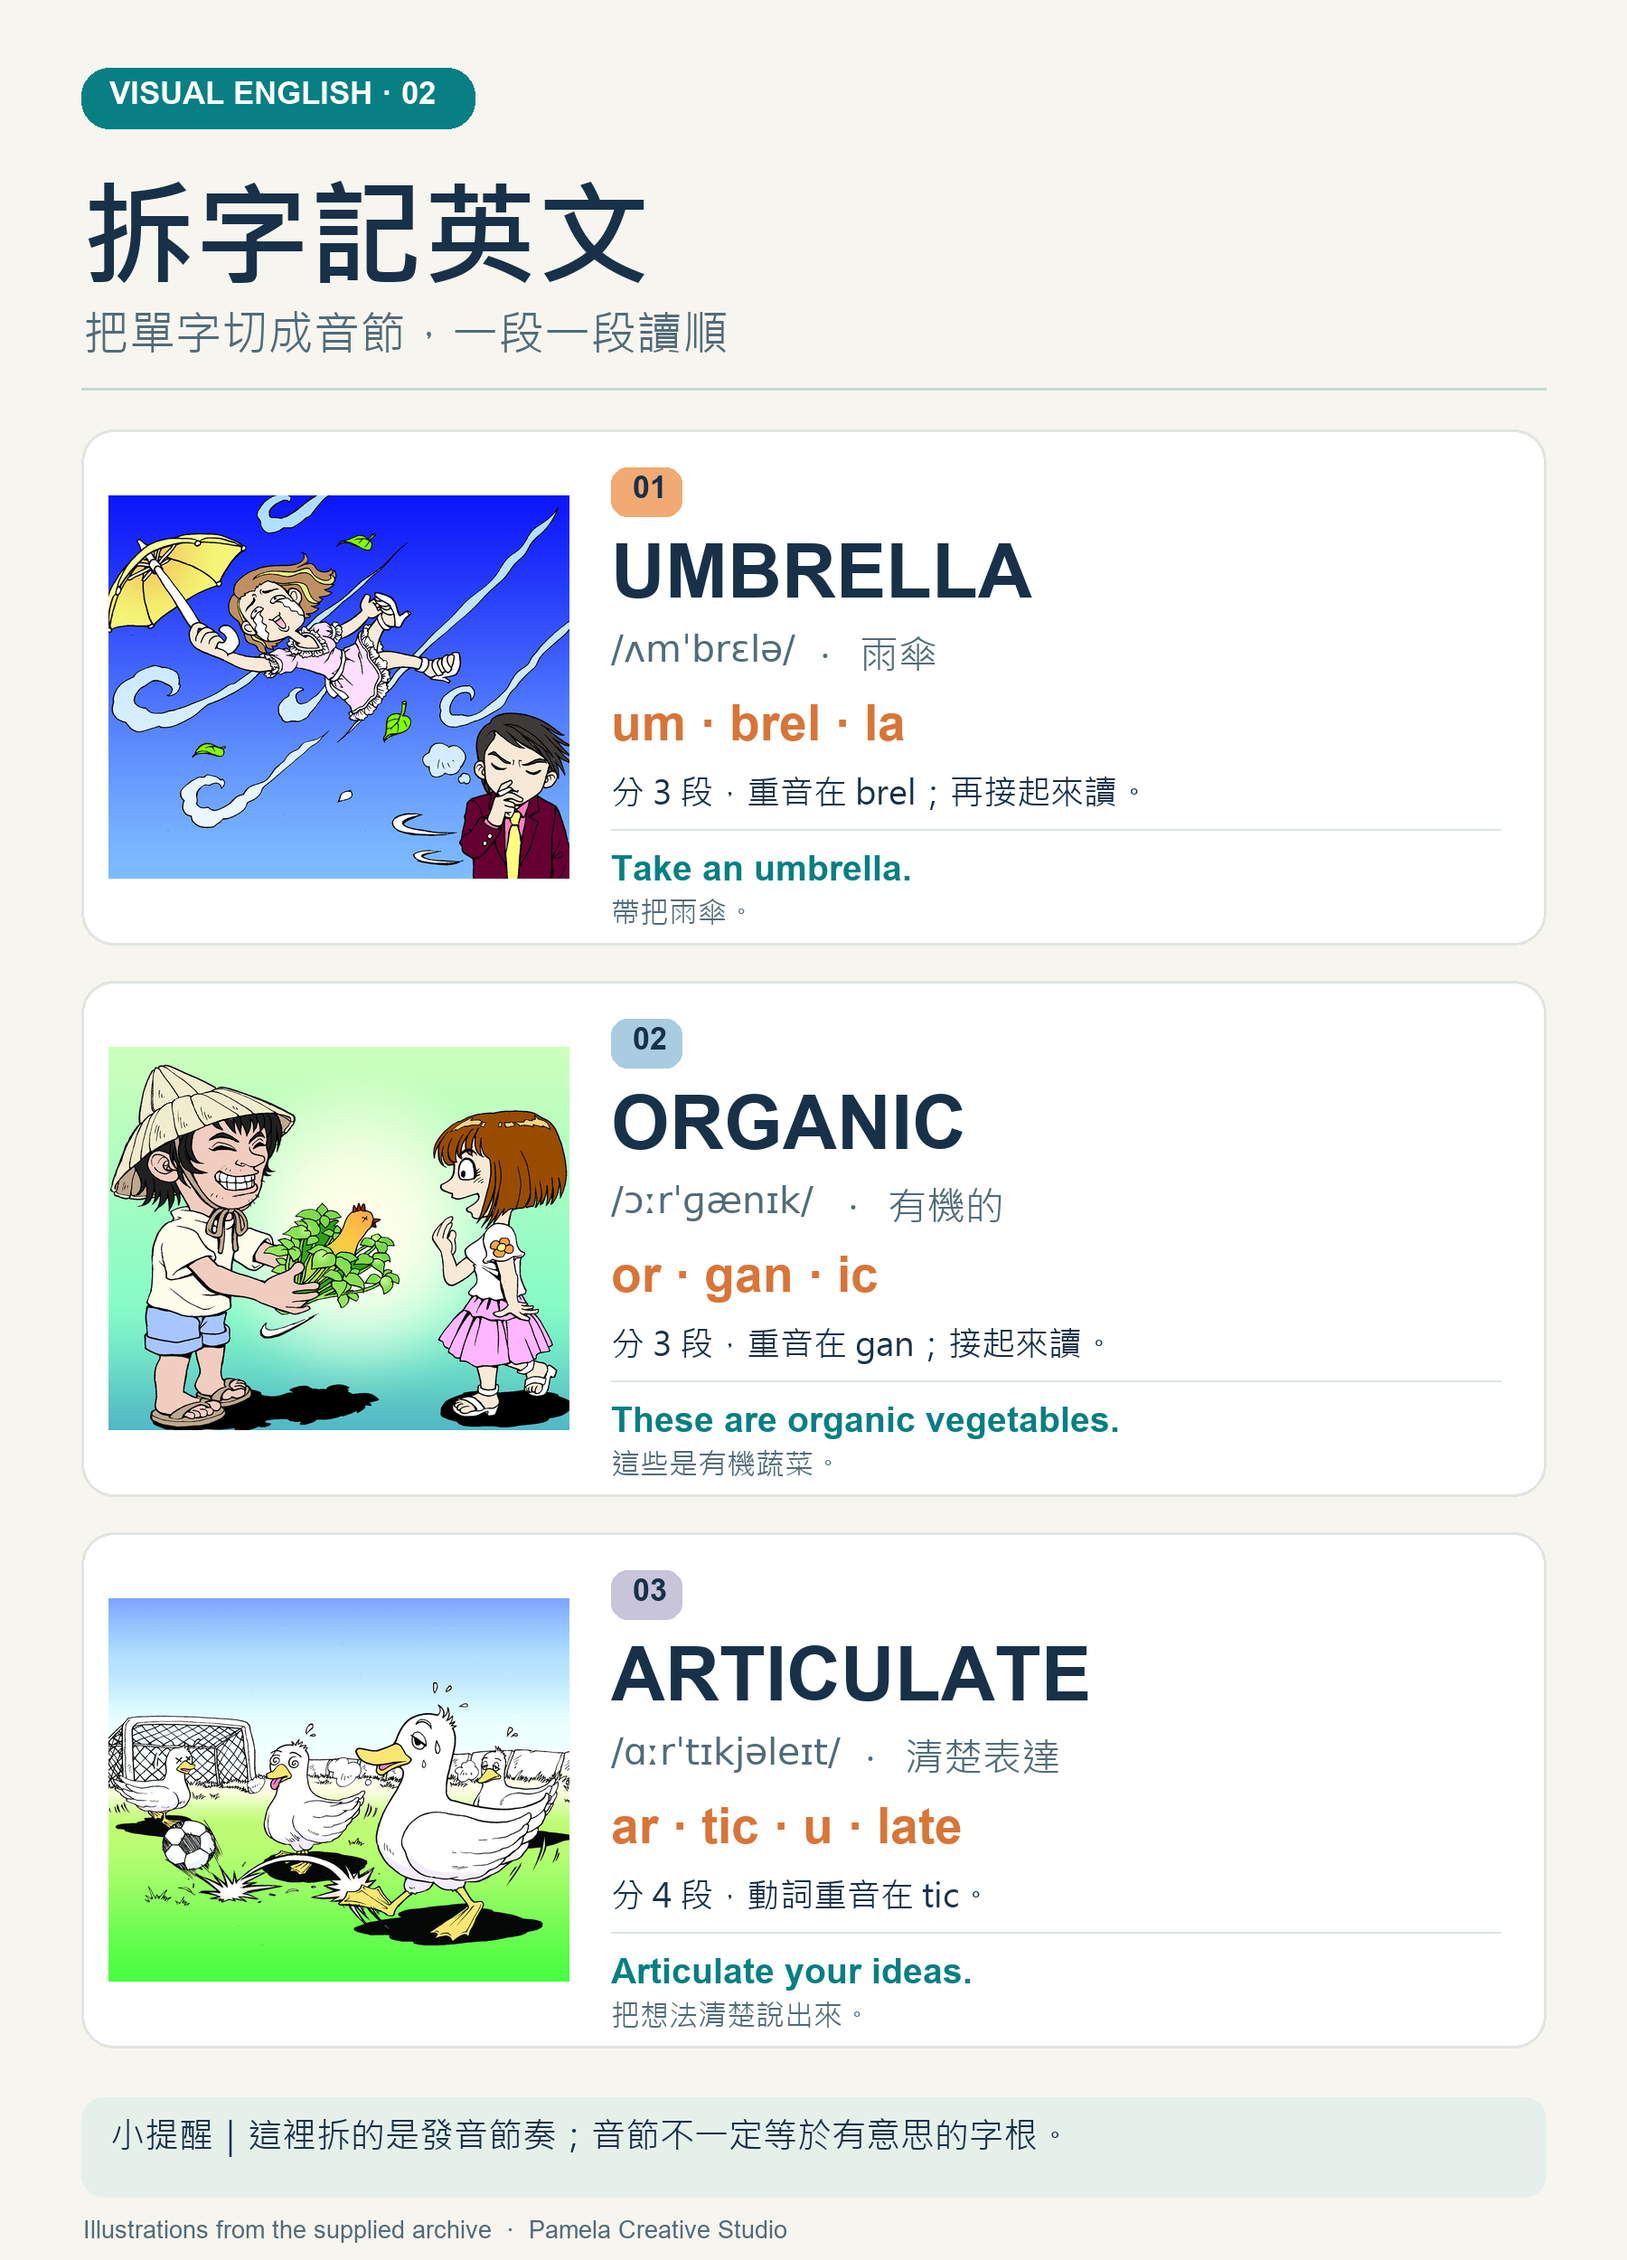
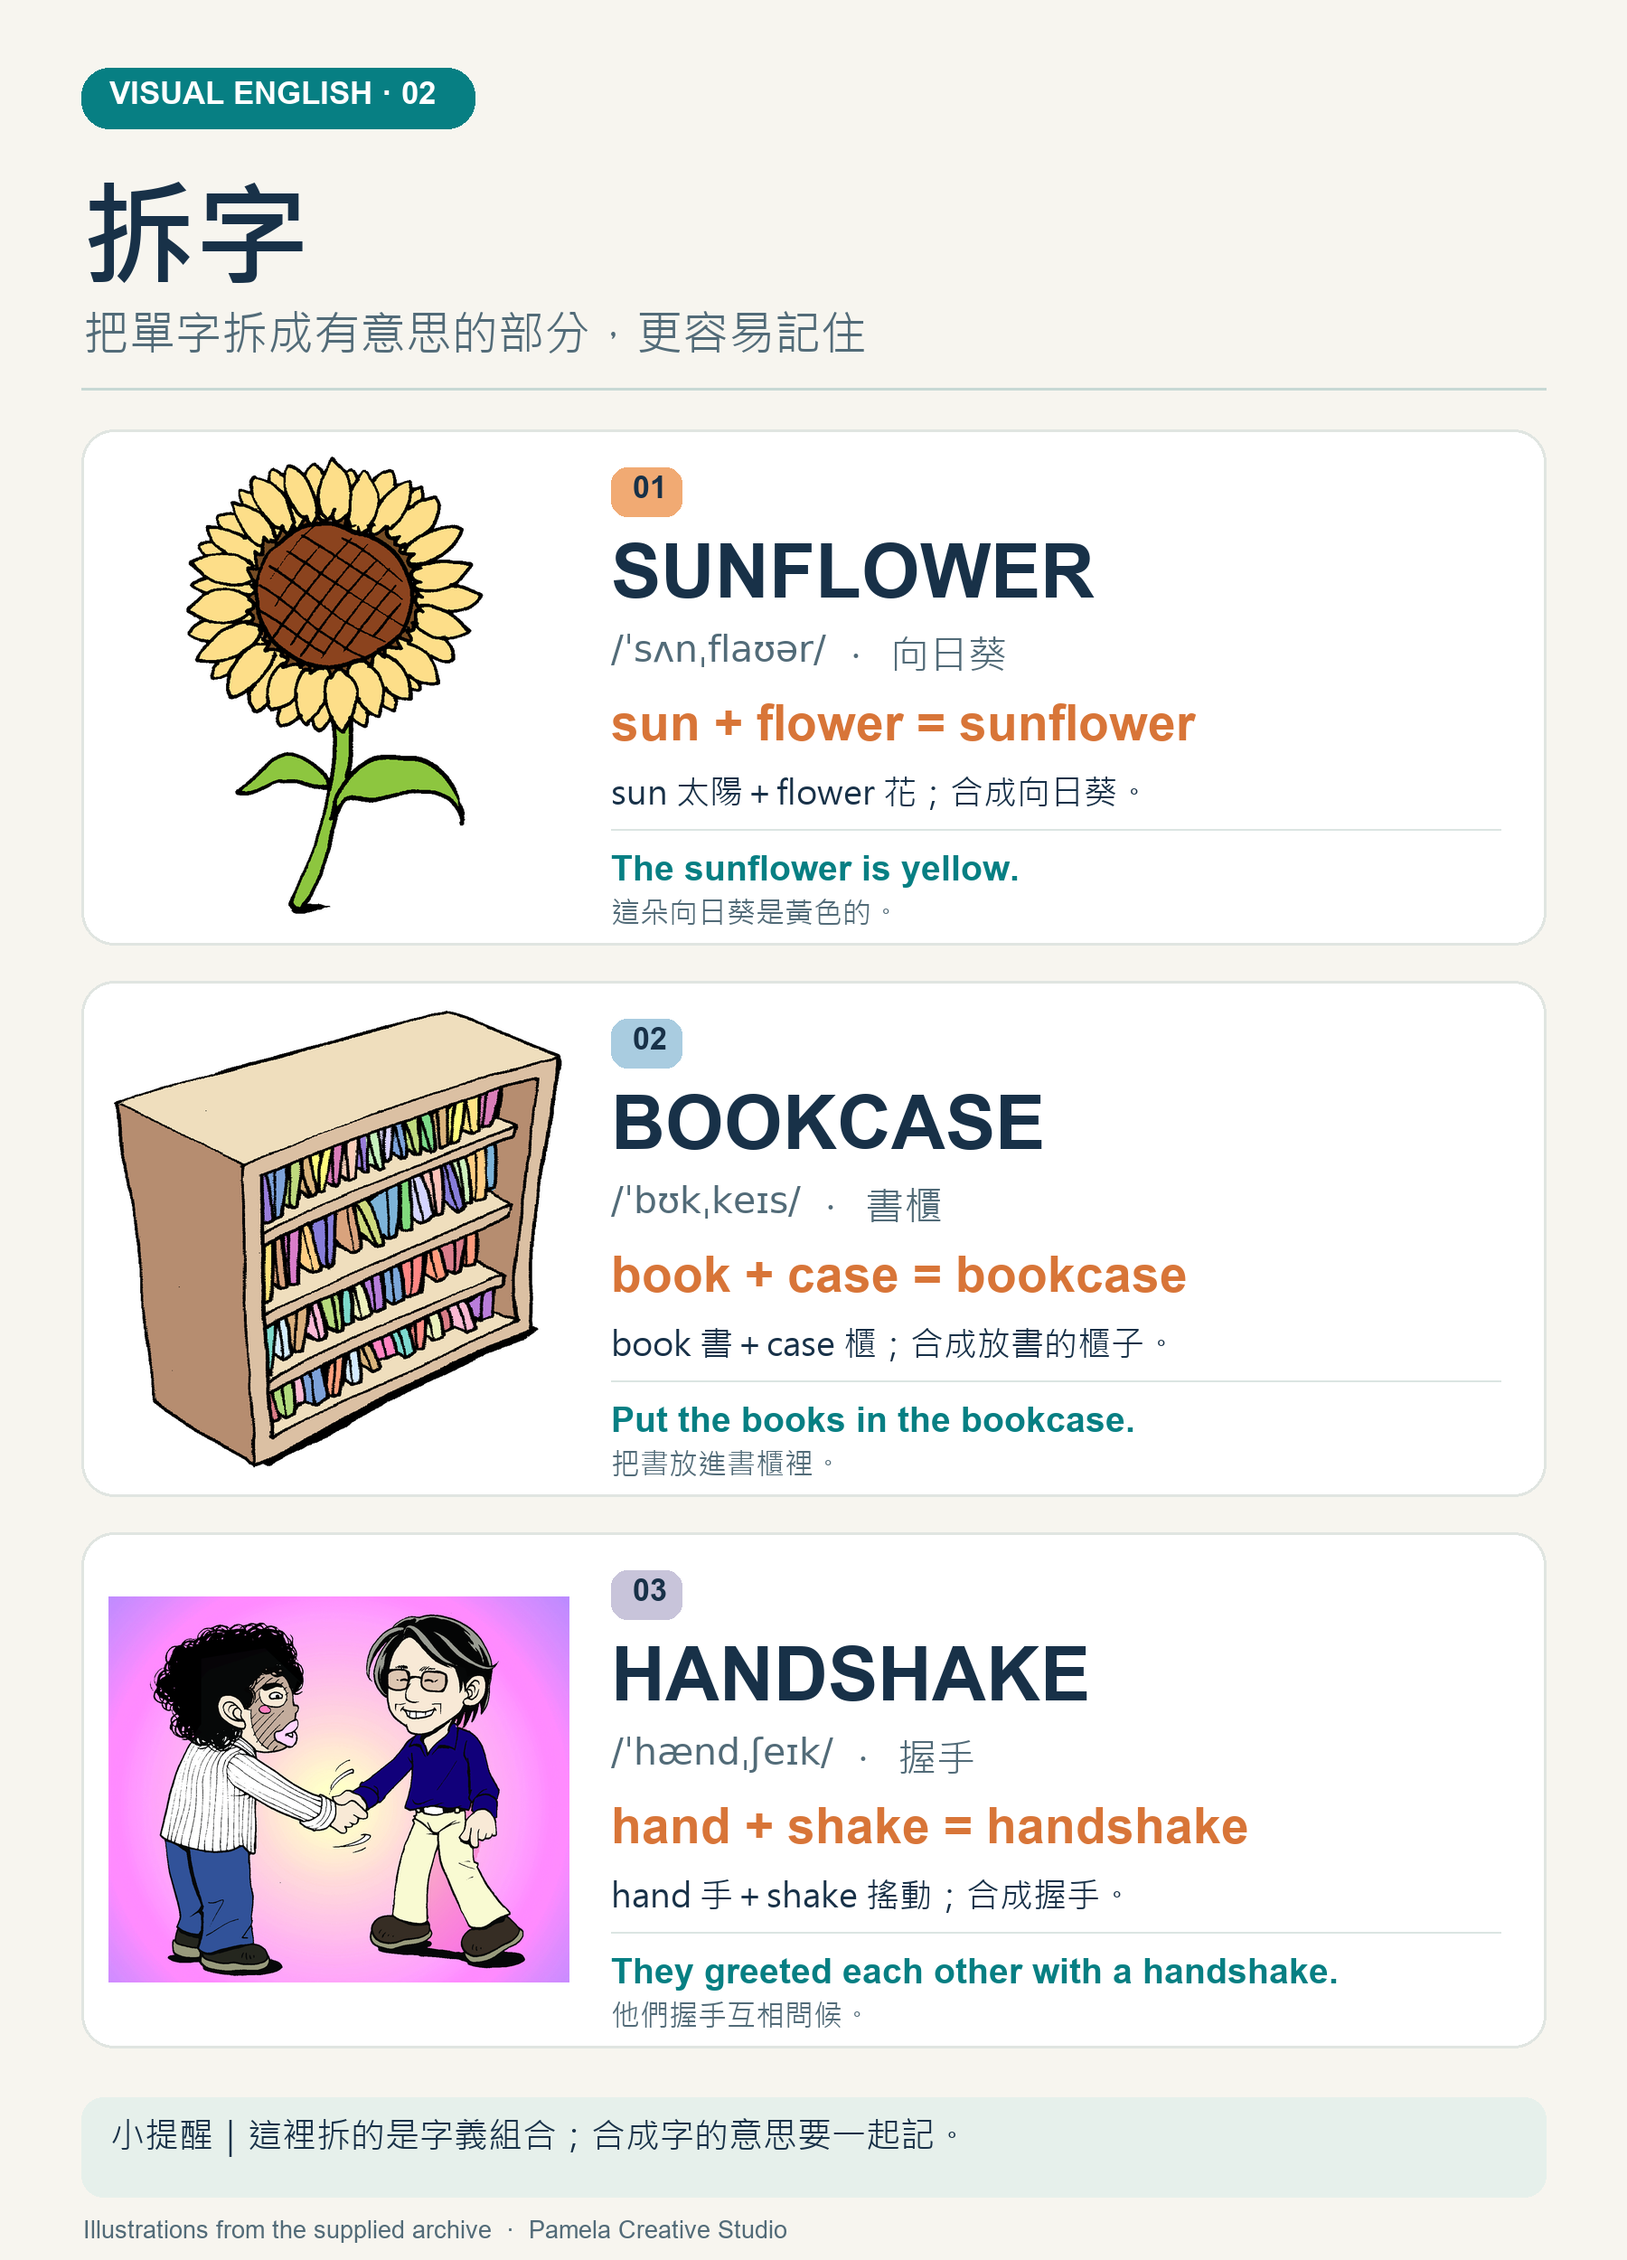
Replace English teaching illustrations

diff --git a/educational-illustrations.html b/educational-illustrations.html
@@ -27,11 +27,11 @@
           <img src="assets/images/educational-illustrations/multiple-intelligences-mind-map.webp" alt="多元智能心智繪圖：語言、數字邏輯、自然觀察、人際關係、音樂、空間、內省與肢體" width="1484" height="1060" fetchpriority="high">
           <img src="assets/images/educational-illustrations/taiwan-parks-and-ports.webp" alt="台灣地理：公園與港口，標示陽明山、雪霸、太魯閣、玉山、墾丁及各地港口" width="1484" height="1060" loading="lazy" decoding="async">
           <img src="assets/images/educational-illustrations/taiwan-major-construction.webp" alt="台灣地理：十大建設，呈現機場、鐵路、港口、高速公路與工業建設" width="1484" height="1060" loading="lazy" decoding="async">
-          <div class="illustration-card"><img src="assets/images/educational-illustrations/visual-english-01-homophonic-memory.webp" alt="諧音學英文教學圖：Tomorrow、Quiz、Zebra 的圖像記憶法" width="1800" height="2500" loading="lazy" decoding="async"></div>
-          <div class="illustration-card"><img src="assets/images/educational-illustrations/visual-english-02-word-parts.webp" alt="拆字記英文教學圖：Umbrella、Organic、Articulate 的拆字記憶法" width="1800" height="2500" loading="lazy" decoding="async"></div>
-          <div class="illustration-card"><img src="assets/images/educational-illustrations/visual-english-03-rhyming.webp" alt="押韻記英文教學圖：Sore、Globe、Desire 的押韻記憶法" width="1800" height="2500" loading="lazy" decoding="async"></div>
-          <div class="illustration-card"><img src="assets/images/educational-illustrations/visual-english-04-roots-prefixes.webp" alt="字根字首教學圖：Intake、Fidelity、Emphasize 的字首字根記憶法" width="1800" height="2500" loading="lazy" decoding="async"></div>
-          <div class="illustration-card"><img src="assets/images/educational-illustrations/visual-english-05-same-sound-words.webp" alt="同音辨字教學圖：Buy、By、Bye 等同音字辨識" width="1800" height="2500" loading="lazy" decoding="async"></div>
+          <div class="illustration-card"><img src="assets/images/educational-illustrations/visual-english-01-homophonic-memory.webp?v=20261010" alt="諧音學英文教學圖：Tomorrow、Quiz、Zebra 的圖像記憶法" width="1800" height="2500" loading="lazy" decoding="async"></div>
+          <div class="illustration-card"><img src="assets/images/educational-illustrations/visual-english-02-word-parts.webp?v=20261010" alt="拆字記英文教學圖：Sunflower、Bookcase、Handshake 的拆字記憶法" width="1800" height="2500" loading="lazy" decoding="async"></div>
+          <div class="illustration-card"><img src="assets/images/educational-illustrations/visual-english-03-rhyming.webp?v=20261010" alt="押韻記英文教學圖：Bee、Flea、Tree 等押韻詞組的記憶法" width="1800" height="2500" loading="lazy" decoding="async"></div>
+          <div class="illustration-card"><img src="assets/images/educational-illustrations/visual-english-04-roots-prefixes.webp?v=20261010" alt="字根字首教學圖：Unicycle、Bicycle、Tricycle 的字首記憶法" width="1800" height="2500" loading="lazy" decoding="async"></div>
+          <div class="illustration-card"><img src="assets/images/educational-illustrations/visual-english-05-same-sound-words.webp?v=20261010" alt="同音辨字教學圖：Flower、Flour、Meet、Meat、Knight、Night 等同音字辨識" width="1800" height="2500" loading="lazy" decoding="async"></div>
         </div>
       </section>
     </main>
